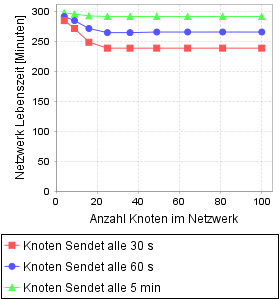
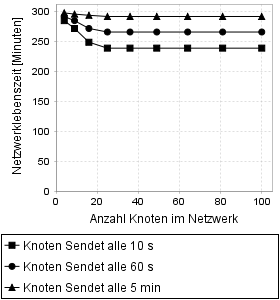
Anpassung von Simulationsausgaben

diff --git a/src/Simulator/ComparativeEvaluation.java b/src/Simulator/ComparativeEvaluation.java
@@ -319,12 +319,13 @@ public class ComparativeEvaluation {
 			
 			System.out.println("DSDV - " + numberOfNodes[i] + " Nodes");
 			dsdvConsumedEnergy[0][i] = numberOfNodes[i];
-			dsdvSimulator.energyCostAnalysis (networkWidth[i], 0, (int) Math.pow(networkWidth[i], 2) - 1);
-			dsdvConsumedEnergy[1][i] = dsdvSimulator.getEnergyCostsForPropagationNetworkStructure();
+			dsdvSimulator.energyCostAnalysis(networkWidth[i], 0, 1);
+			dsdvConsumedEnergy[1][i] = dsdvSimulator.getEnergyCostsForPeriodicUpdate();
 			
 			System.out.println("OLSR - " + numberOfNodes[i] + " Nodes");
 			olsrConsumedEnergy[0][i] = numberOfNodes[i];
-			olsrSimulator.energyCostAnalysisWithoutControlmessages(networkWidth[i], 0, (int) Math.pow(networkWidth[i], 2) - 1);
+			olsrSimulator.energyCostAnalysisWithoutControlmessages(networkWidth[i], 0,
+					(int) Math.pow(networkWidth[i], 2) - 1);
 			olsrConsumedEnergy[1][i] = olsrSimulator.getConsumedEnergyForControlMsg();
 			
 			System.out.println("AODV - " + numberOfNodes[i] + " Nodes");
@@ -346,8 +347,8 @@ public class ComparativeEvaluation {
 		DefaultXYDataset dataset = new DefaultXYDataset();
 		dataset.addSeries("DSDV", dsdvConsumedEnergy);
 		dataset.addSeries("OLSR", olsrConsumedEnergy);
-		dataset.addSeries("AODV", aodvConsumedEnergy);
-		dataset.addSeries("AODVM", aodvmConsumedEnergy);
+		//dataset.addSeries("AODV", aodvConsumedEnergy);
+		//dataset.addSeries("AODVM", aodvmConsumedEnergy);
 		dataset.addSeries("EADV", eadvConsumedEnergy);
 
 		XYLineAndShapeRenderer line = new XYLineAndShapeRenderer();
@@ -358,8 +359,8 @@ public class ComparativeEvaluation {
 		plot.getRenderer().setSeriesPaint(0, Color.BLACK);
 		plot.getRenderer().setSeriesPaint(1, Color.BLACK);
 		plot.getRenderer().setSeriesPaint(2, Color.BLACK);
-		plot.getRenderer().setSeriesPaint(3, Color.BLACK);
-		plot.getRenderer().setSeriesPaint(4, Color.BLACK);
+		//plot.getRenderer().setSeriesPaint(3, Color.BLACK);
+		//plot.getRenderer().setSeriesPaint(4, Color.BLACK);
 
 		JFreeChart chart = new JFreeChart(plot);
 

diff --git a/src/Simulator/Main.java b/src/Simulator/Main.java
@@ -45,7 +45,7 @@ public class Main {
 		//dsdvEvaluationUnit.evaluateCostAnalysis();
 		//dsdvEvaluationUnit.evaluateNetworkLivetimeWithoutPayloadMessageTransmission();
 		//dsdvEvaluationUnit.evaluateNetworkLivetimeStaticSendBehaviorOneDestination(80);
-		//dsdvEvaluationUnit.evaluateNetworkLivetimeRandomSorceAndDest(80, 10);
+		dsdvEvaluationUnit.evaluateNetworkLivetimeRandomSorceAndDest(80, 10);
 		//dsdvEvaluationUnit.evaluateNetworkPartitioningAnalysis(80);
 		//dsdvEvaluationUnit.evaluateNetworkPartioningAnaylsisRandomSorceAndDest(80, 10);
 		
@@ -68,7 +68,7 @@ public class Main {
 		//ComparativeEvaluation.speedAnalysis();
 		//ComparativeEvaluation.speedAnalysisWhenNetworkIsInitialized();
 		//ComparativeEvaluation.costAnalysis();
-		ComparativeEvaluation.costAnalysisRoutingData();
+		//ComparativeEvaluation.costAnalysisRoutingData();
 		//ComparativeEvaluation.lifetimeAnalysisOneDestination(80);
 		//ComparativeEvaluation.lifetimeAnalysisRandomSorceAndDest(80, 10);
 		//ComparativeEvaluation.PartitioningAnalysisOneDestination(80);

diff --git a/src/AODV/AodvEvaluationUnit.java b/src/AODV/AodvEvaluationUnit.java
@@ -557,7 +557,7 @@ public class AodvEvaluationUnit extends EvaluationUnit {
 
 		// Network Lifetime
 		DefaultXYDataset dataset = new DefaultXYDataset();
-		dataset.addSeries("Knoten Sendet alle 30 s", sendTime_10);
+		dataset.addSeries("Knoten Sendet alle 10 s", sendTime_10);
 		dataset.addSeries("Knoten Sendet alle 60 s", sendTime_60);
 		dataset.addSeries("Knoten Sendet alle 5 min", sendTime_600);
 		// dataset.addSeries("Knoten Sendet alle 20 m", sendTime_1200);
@@ -565,7 +565,7 @@ public class AodvEvaluationUnit extends EvaluationUnit {
 		XYLineAndShapeRenderer line = new XYLineAndShapeRenderer();
 
 		NumberAxis xAxis = new NumberAxis("Anzahl Knoten im Netzwerk");
-		NumberAxis yAxis = new NumberAxis("Netzwerk Lebenszeit [Minuten]");
+		NumberAxis yAxis = new NumberAxis("Netzwerklebenszeit [Minuten]");
 		XYPlot plot = new XYPlot(dataset, xAxis, yAxis, line);
 		plot.getRenderer().setSeriesPaint(0, Color.BLACK);
 		plot.getRenderer().setSeriesPaint(1, Color.BLACK);

diff --git a/src/AODVM/AodvmEvaluationUnit.java b/src/AODVM/AodvmEvaluationUnit.java
@@ -17,12 +17,11 @@ import Simulator.EvaluationUnit;
 
 public class AodvmEvaluationUnit extends EvaluationUnit {
 
-	// private static final int networkWidth[] = {3, 5, 10, 15, 22, 27, 32};
-	// private static final int networkWidth[] = {2, 3, 4, 5, 6, 7, 8, 9, 10,
-	// 11, 12, 13, 14};
-	private static final int networkWidth[] = { 2, 3, 4, 5, 6, 7, 8, 9, 10};
+	
+	private static final int networkWidth[] = { 2, 3, 4, 5, 6, 7, 8, 9, 10};	//Network width
 	
 
+	// Dimensions of graphics
 	private static final int CHART_HIGHT = 300;
 	private static final int CHART_WIDTH = 280;
 

diff --git a/src/DSDV/DsdvEvaluationUnit.java b/src/DSDV/DsdvEvaluationUnit.java
@@ -518,7 +518,7 @@ public class DsdvEvaluationUnit extends EvaluationUnit {
 		XYLineAndShapeRenderer line = new XYLineAndShapeRenderer();
 
 		NumberAxis xAxis = new NumberAxis("Anzahl Knoten im Netzwerk");
-		NumberAxis yAxis = new NumberAxis("Netzwerk Lebenszeit [Minuten]");
+		NumberAxis yAxis = new NumberAxis("Netzwerklebenszeit [Minuten]");
 		XYPlot plot = new XYPlot(dataset, xAxis, yAxis, line);
 		plot.getRenderer().setSeriesPaint(0, Color.BLACK);
 		plot.getRenderer().setSeriesPaint(1, Color.BLACK);
